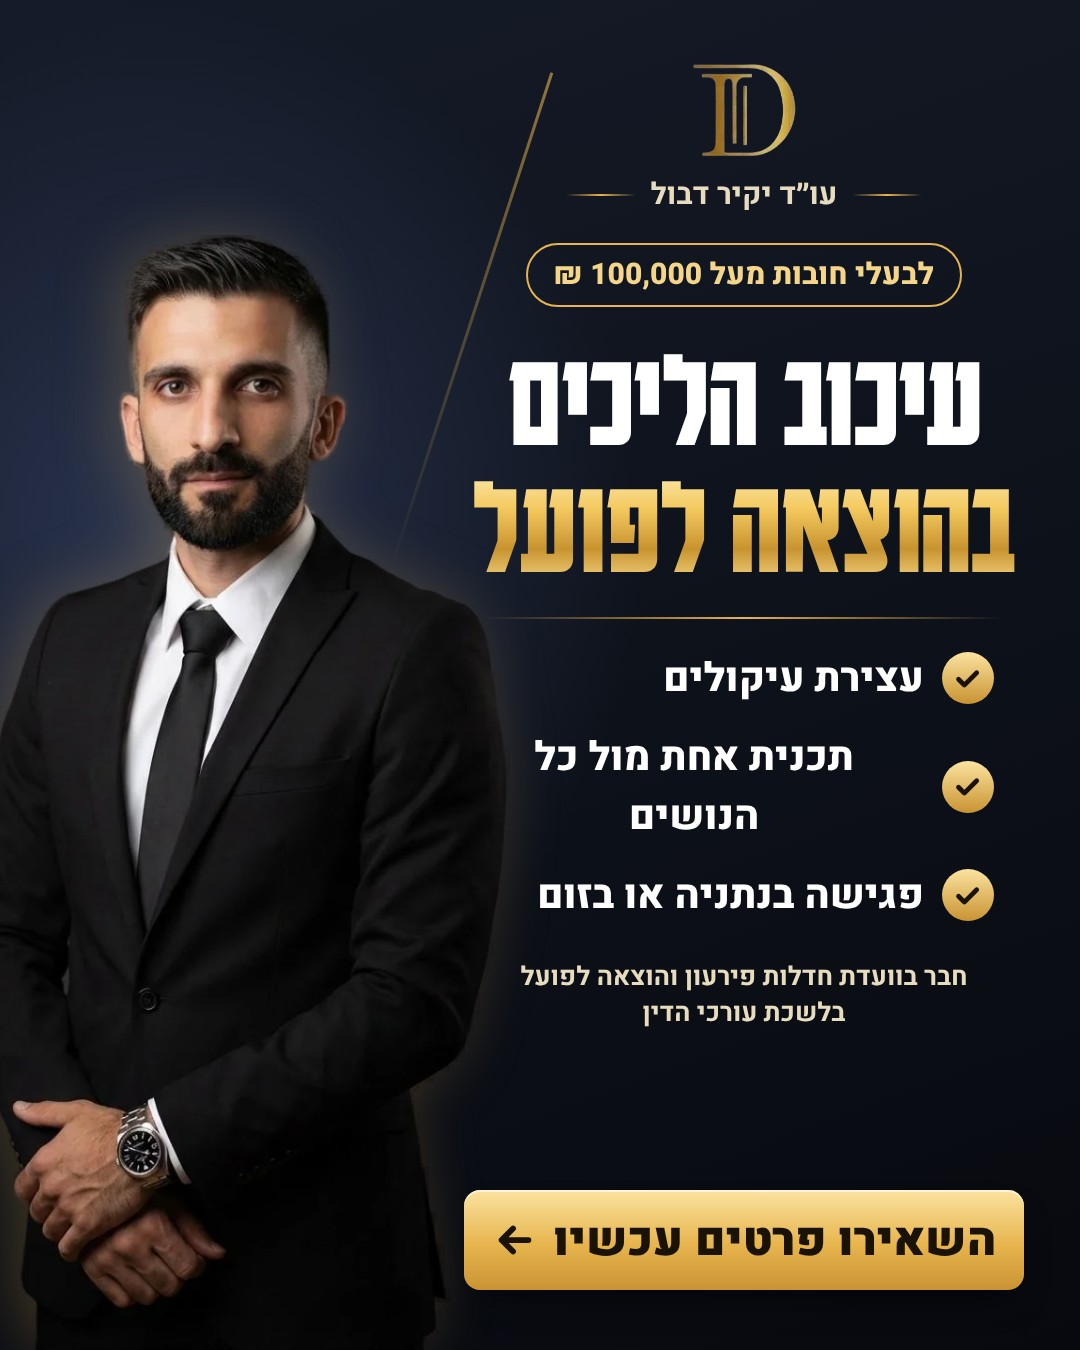
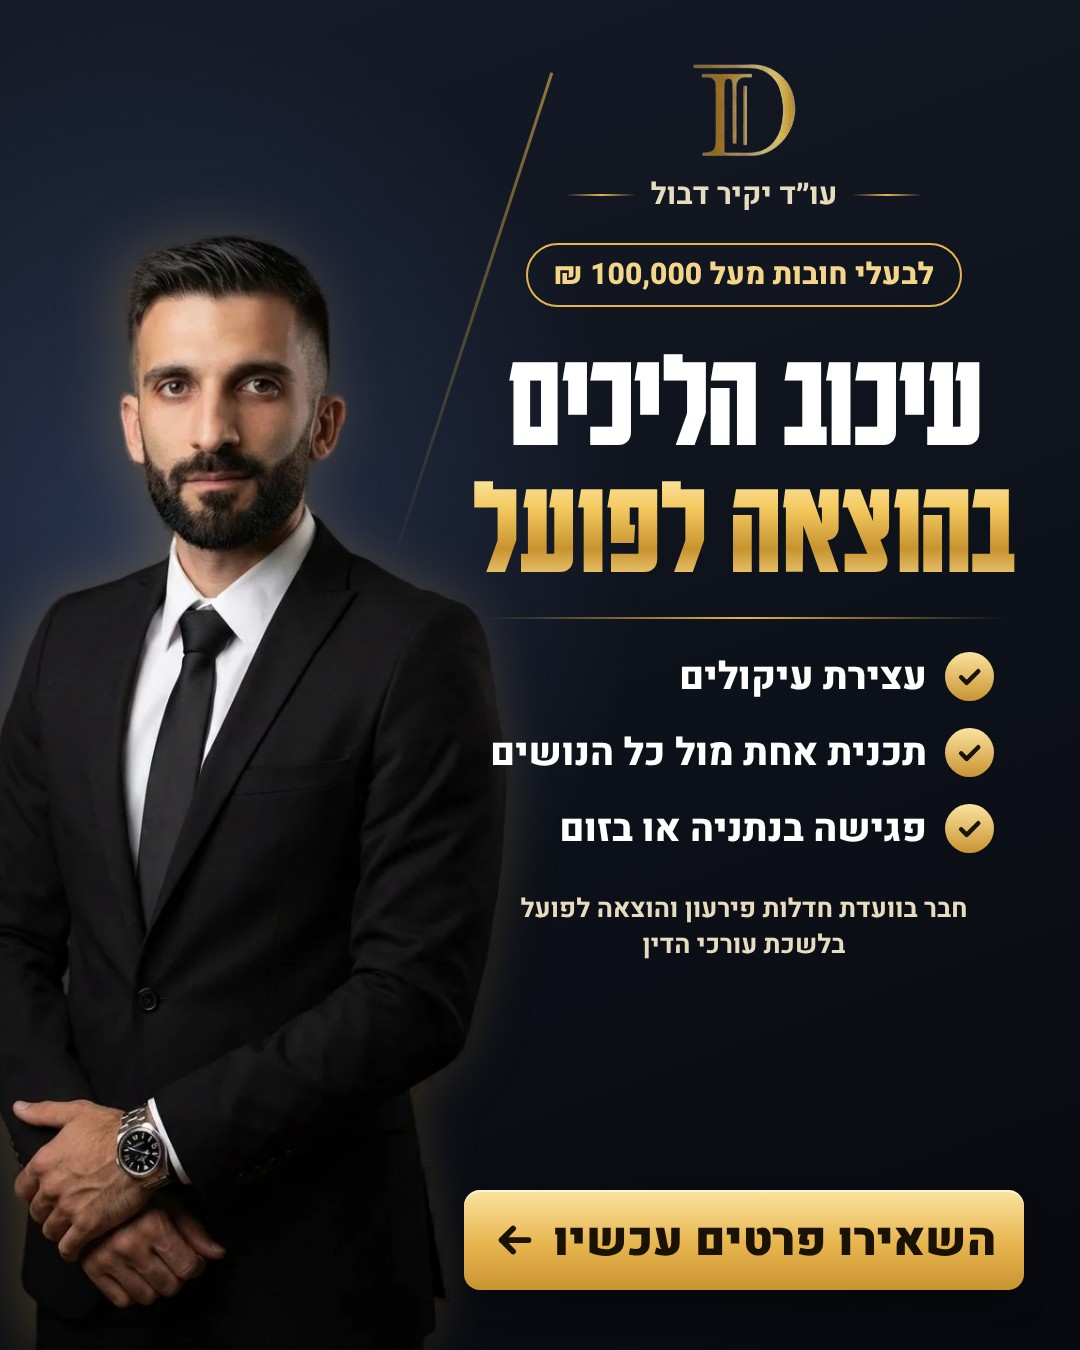
Debt ads v4: fix wrapped bullet (premium) and text touching photo (year-end)
Claude-Session: https://claude.ai/code/session_01R2PTbBSCdrkEqwtLk6qd2a

Changed region(s): [[0.4583, 0.4667, 0.9167, 0.7778]]

diff --git a/media/campaign/debt-2026-10/ads/v4-premium-f.html b/media/campaign/debt-2026-10/ads/v4-premium-f.html
@@ -122,11 +122,11 @@ html,body{background:var(--paper)}
 .cut{position:absolute;bottom:0}.cut img{display:block;width:100%;height:auto}
 .btn-g{display:flex;align-items:center;justify-content:center;gap:16px;border-radius:16px;font-weight:900;color:#1A1205;
  background:linear-gradient(180deg,#FBE3A0,#E7B44E 55%,#C99332);box-shadow:0 18px 36px -16px rgba(0,0,0,.7),inset 0 2px 0 rgba(255,255,255,.6)}
-.gl{display:flex;align-items:center;gap:18px;font-weight:800;color:#fff}
+.gl{display:flex;align-items:center;gap:18px;font-weight:800;color:#fff;white-space:nowrap}
 .gl i{flex:none;border-radius:50%;display:grid;place-items:center;background:linear-gradient(180deg,#FBE3A0,#C99332);color:#1A1205}
 .gl i svg{width:60%;height:60%}
 .rule{height:2px;background:linear-gradient(90deg,rgba(231,180,78,0),#E7B44E,rgba(231,180,78,0))}
 .pill-o{display:inline-block;border:2px solid #E7B44E;border-radius:999px;color:#F4D58A;font-weight:800}
 .plus{display:flex;align-items:center;gap:16px;font-weight:900;color:#fff}
 .plus i{flex:none;border-radius:50%;background:#F08A7E;color:#7A1414;display:grid;place-items:center;font-style:normal;font-weight:900}
-</style></head><body><div class="A f" id="ad" style="background:radial-gradient(800px 900px at 15% 40%,#2A3550 0%,rgba(42,53,80,0) 60%),linear-gradient(160deg,#151B28,#07090E)"><div class="cut" style="left:-50px;width:560px;bottom:0;filter:drop-shadow(-10px 0 30px rgba(231,180,78,.25))"><img src="../img/yakir-cutout.webp"></div><div style="position:absolute;left:470px;top:60px;width:3px;height:520px;background:linear-gradient(#E7B44E,rgba(231,180,78,0));transform:rotate(18deg);opacity:.6"></div><div style="position:absolute;right:56px;width:560px;top:64px;text-align:center"><img src="../img/logo-d.png" style="height:96px"><div style="display:flex;align-items:center;gap:14px;justify-content:center;color:#E8DCC0;font-size:30px;font-weight:600;margin-top:6px"><span class="rule" style="width:70px"></span>עו״ד יקיר דבול<span class="rule" style="width:70px"></span></div><span class="pill-o" style="font-size:30px;padding:8px 26px;margin-top:26px">לבעלי חובות מעל 100,000 ₪</span><div class="K" style="font-size:138px;margin-top:26px;color:#fff">עיכוב הליכים</div><div class="K gold" style="font-size:138px">בהוצאה לפועל</div><div class="rule" style="margin:30px 20px"></div><div style="display:grid;gap:20px;justify-items:start;padding-right:30px"><div class="gl" style="font-size:40px"><i style="width:52px;height:52px"><svg viewBox="0 0 24 24" fill="none" stroke="currentColor" stroke-width="3.6" stroke-linecap="round" stroke-linejoin="round"><path d="M5 12.5l4.5 4.5L19 7.5"/></svg></i>עצירת עיקולים</div><div class="gl" style="font-size:40px"><i style="width:52px;height:52px"><svg viewBox="0 0 24 24" fill="none" stroke="currentColor" stroke-width="3.6" stroke-linecap="round" stroke-linejoin="round"><path d="M5 12.5l4.5 4.5L19 7.5"/></svg></i>תכנית אחת מול כל הנושים</div><div class="gl" style="font-size:40px"><i style="width:52px;height:52px"><svg viewBox="0 0 24 24" fill="none" stroke="currentColor" stroke-width="3.6" stroke-linecap="round" stroke-linejoin="round"><path d="M5 12.5l4.5 4.5L19 7.5"/></svg></i>פגישה בנתניה או בזום</div></div><div style="margin-top:34px;color:#E8DCC0;font-size:26px;font-weight:600;line-height:1.4">חבר בוועדת חדלות פירעון והוצאה לפועל<br>בלשכת עורכי הדין</div></div><div class="btn-g" style="position:absolute;right:56px;width:560px;bottom:60px;height:100px;font-size:46px">השאירו פרטים עכשיו<svg viewBox="0 0 24 24" width="1em" height="1em" fill="none" stroke="currentColor" stroke-width="3" stroke-linecap="round" stroke-linejoin="round"><path d="M19 12H5M11 6l-6 6 6 6"/></svg></div></div></body></html>
+</style></head><body><div class="A f" id="ad" style="background:radial-gradient(800px 900px at 15% 40%,#2A3550 0%,rgba(42,53,80,0) 60%),linear-gradient(160deg,#151B28,#07090E)"><div class="cut" style="left:-50px;width:560px;bottom:0;filter:drop-shadow(-10px 0 30px rgba(231,180,78,.25))"><img src="../img/yakir-cutout.webp"></div><div style="position:absolute;left:470px;top:60px;width:3px;height:520px;background:linear-gradient(#E7B44E,rgba(231,180,78,0));transform:rotate(18deg);opacity:.6"></div><div style="position:absolute;right:56px;width:560px;top:64px;text-align:center"><img src="../img/logo-d.png" style="height:96px"><div style="display:flex;align-items:center;gap:14px;justify-content:center;color:#E8DCC0;font-size:30px;font-weight:600;margin-top:6px"><span class="rule" style="width:70px"></span>עו״ד יקיר דבול<span class="rule" style="width:70px"></span></div><span class="pill-o" style="font-size:30px;padding:8px 26px;margin-top:26px">לבעלי חובות מעל 100,000 ₪</span><div class="K" style="font-size:138px;margin-top:26px;color:#fff">עיכוב הליכים</div><div class="K gold" style="font-size:138px">בהוצאה לפועל</div><div class="rule" style="margin:30px 20px"></div><div style="display:grid;gap:20px;justify-items:start;padding-right:30px"><div class="gl" style="font-size:38px"><i style="width:49px;height:49px"><svg viewBox="0 0 24 24" fill="none" stroke="currentColor" stroke-width="3.6" stroke-linecap="round" stroke-linejoin="round"><path d="M5 12.5l4.5 4.5L19 7.5"/></svg></i>עצירת עיקולים</div><div class="gl" style="font-size:38px"><i style="width:49px;height:49px"><svg viewBox="0 0 24 24" fill="none" stroke="currentColor" stroke-width="3.6" stroke-linecap="round" stroke-linejoin="round"><path d="M5 12.5l4.5 4.5L19 7.5"/></svg></i>תכנית אחת מול כל הנושים</div><div class="gl" style="font-size:38px"><i style="width:49px;height:49px"><svg viewBox="0 0 24 24" fill="none" stroke="currentColor" stroke-width="3.6" stroke-linecap="round" stroke-linejoin="round"><path d="M5 12.5l4.5 4.5L19 7.5"/></svg></i>פגישה בנתניה או בזום</div></div><div style="margin-top:34px;color:#E8DCC0;font-size:26px;font-weight:600;line-height:1.4">חבר בוועדת חדלות פירעון והוצאה לפועל<br>בלשכת עורכי הדין</div></div><div class="btn-g" style="position:absolute;right:56px;width:560px;bottom:60px;height:100px;font-size:46px">השאירו פרטים עכשיו<svg viewBox="0 0 24 24" width="1em" height="1em" fill="none" stroke="currentColor" stroke-width="3" stroke-linecap="round" stroke-linejoin="round"><path d="M19 12H5M11 6l-6 6 6 6"/></svg></div></div></body></html>

diff --git a/media/campaign/debt-2026-10/ads/v4-yearend-f.html b/media/campaign/debt-2026-10/ads/v4-yearend-f.html
@@ -122,11 +122,11 @@ html,body{background:var(--paper)}
 .cut{position:absolute;bottom:0}.cut img{display:block;width:100%;height:auto}
 .btn-g{display:flex;align-items:center;justify-content:center;gap:16px;border-radius:16px;font-weight:900;color:#1A1205;
  background:linear-gradient(180deg,#FBE3A0,#E7B44E 55%,#C99332);box-shadow:0 18px 36px -16px rgba(0,0,0,.7),inset 0 2px 0 rgba(255,255,255,.6)}
-.gl{display:flex;align-items:center;gap:18px;font-weight:800;color:#fff}
+.gl{display:flex;align-items:center;gap:18px;font-weight:800;color:#fff;white-space:nowrap}
 .gl i{flex:none;border-radius:50%;display:grid;place-items:center;background:linear-gradient(180deg,#FBE3A0,#C99332);color:#1A1205}
 .gl i svg{width:60%;height:60%}
 .rule{height:2px;background:linear-gradient(90deg,rgba(231,180,78,0),#E7B44E,rgba(231,180,78,0))}
 .pill-o{display:inline-block;border:2px solid #E7B44E;border-radius:999px;color:#F4D58A;font-weight:800}
 .plus{display:flex;align-items:center;gap:16px;font-weight:900;color:#fff}
 .plus i{flex:none;border-radius:50%;background:#F08A7E;color:#7A1414;display:grid;place-items:center;font-style:normal;font-weight:900}
-</style></head><body><div class="A f" id="ad" style="background:radial-gradient(900px 900px at 80% 20%,#B3262B 0%,rgba(179,38,43,0) 70%),linear-gradient(170deg,#8E1B1F,#4E0B0E)"><div class="cut" style="left:-40px;width:540px;bottom:0;filter:drop-shadow(0 20px 40px rgba(0,0,0,.5))"><img src="../img/yakir-cutout.webp"></div><div style="position:absolute;right:60px;top:70px;width:200px;border-radius:22px;overflow:hidden;background:#fff;box-shadow:0 24px 40px -18px rgba(0,0,0,.6);text-align:center;transform:rotate(4deg)"><div style="background:#1A1A1A;color:#fff;font-weight:800;font-size:30px;padding:10px 0">דצמבר</div><div class="L" style="font-size:120px;color:#B3262B;padding:20px 0 14px">31</div></div><div style="position:absolute;right:60px;width:600px;top:330px"><div class="K" style="font-size:150px;color:#fff">סוף שנה.</div><div class="K" style="font-size:118px;color:#FFD9D4;margin-top:6px">הזמן להסדר<br>מול הבנקים.</div><div style="display:grid;gap:22px;margin-top:44px"><div class="plus" style="font-size:42px"><i style="width:50px;height:50px;font-size:38px">+</i>עיכוב הליכים בהוצאה לפועל</div><div class="plus" style="font-size:42px"><i style="width:50px;height:50px;font-size:38px">+</i>עצירת עיקולים</div><div class="plus" style="font-size:42px"><i style="width:50px;height:50px;font-size:38px">+</i>הסדר מול הבנקים והנושים</div></div></div><div style="position:absolute;right:0;left:0;bottom:0;height:150px;background:#F08A7E;display:flex;align-items:center;justify-content:center;gap:22px"><span class="K" style="font-size:84px;color:#4E0B0E">בדיקה ראשונה, ללא התחייבות</span></div><div style="position:absolute;left:40px;top:60px;color:#fff;text-align:left;font-weight:800;font-size:28px;line-height:1.25">עו״ד יקיר דבול<br><span style="font-weight:500;color:#FFD9D4;font-size:24px">חדלות פירעון והסדרי חובות</span></div></div></body></html>
+</style></head><body><div class="A f" id="ad" style="background:radial-gradient(900px 900px at 80% 20%,#B3262B 0%,rgba(179,38,43,0) 70%),linear-gradient(170deg,#8E1B1F,#4E0B0E)"><div class="cut" style="left:-90px;width:500px;bottom:0;filter:drop-shadow(0 20px 40px rgba(0,0,0,.5))"><img src="../img/yakir-cutout.webp"></div><div style="position:absolute;right:60px;top:70px;width:200px;border-radius:22px;overflow:hidden;background:#fff;box-shadow:0 24px 40px -18px rgba(0,0,0,.6);text-align:center;transform:rotate(4deg)"><div style="background:#1A1A1A;color:#fff;font-weight:800;font-size:30px;padding:10px 0">דצמבר</div><div class="L" style="font-size:120px;color:#B3262B;padding:20px 0 14px">31</div></div><div style="position:absolute;right:60px;width:600px;top:330px"><div class="K" style="font-size:150px;color:#fff">סוף שנה.</div><div class="K" style="font-size:118px;color:#FFD9D4;margin-top:6px">הזמן להסדר<br>מול הבנקים.</div><div style="display:grid;gap:22px;margin-top:44px"><div class="plus" style="font-size:38px;white-space:nowrap"><i style="width:50px;height:50px;font-size:38px">+</i>עיכוב הליכים בהוצאה לפועל</div><div class="plus" style="font-size:38px;white-space:nowrap"><i style="width:50px;height:50px;font-size:38px">+</i>עצירת עיקולים</div><div class="plus" style="font-size:38px;white-space:nowrap"><i style="width:50px;height:50px;font-size:38px">+</i>הסדר מול הבנקים והנושים</div></div></div><div style="position:absolute;right:0;left:0;bottom:0;height:150px;background:#F08A7E;display:flex;align-items:center;justify-content:center;gap:22px"><span class="K" style="font-size:84px;color:#4E0B0E">בדיקה ראשונה, ללא התחייבות</span></div><div style="position:absolute;left:40px;top:60px;color:#fff;text-align:left;font-weight:800;font-size:28px;line-height:1.25">עו״ד יקיר דבול<br><span style="font-weight:500;color:#FFD9D4;font-size:24px">חדלות פירעון והסדרי חובות</span></div></div></body></html>

diff --git a/media/campaign/debt-2026-10/ads/v4-outin-f.html b/media/campaign/debt-2026-10/ads/v4-outin-f.html
@@ -122,7 +122,7 @@ html,body{background:var(--paper)}
 .cut{position:absolute;bottom:0}.cut img{display:block;width:100%;height:auto}
 .btn-g{display:flex;align-items:center;justify-content:center;gap:16px;border-radius:16px;font-weight:900;color:#1A1205;
  background:linear-gradient(180deg,#FBE3A0,#E7B44E 55%,#C99332);box-shadow:0 18px 36px -16px rgba(0,0,0,.7),inset 0 2px 0 rgba(255,255,255,.6)}
-.gl{display:flex;align-items:center;gap:18px;font-weight:800;color:#fff}
+.gl{display:flex;align-items:center;gap:18px;font-weight:800;color:#fff;white-space:nowrap}
 .gl i{flex:none;border-radius:50%;display:grid;place-items:center;background:linear-gradient(180deg,#FBE3A0,#C99332);color:#1A1205}
 .gl i svg{width:60%;height:60%}
 .rule{height:2px;background:linear-gradient(90deg,rgba(231,180,78,0),#E7B44E,rgba(231,180,78,0))}

diff --git a/media/campaign/debt-2026-10/ads/gen4.py b/media/campaign/debt-2026-10/ads/gen4.py
@@ -12,7 +12,7 @@ EXTRA = """
 .cut{position:absolute;bottom:0}.cut img{display:block;width:100%;height:auto}
 .btn-g{display:flex;align-items:center;justify-content:center;gap:16px;border-radius:16px;font-weight:900;color:#1A1205;
  background:linear-gradient(180deg,#FBE3A0,#E7B44E 55%,#C99332);box-shadow:0 18px 36px -16px rgba(0,0,0,.7),inset 0 2px 0 rgba(255,255,255,.6)}
-.gl{display:flex;align-items:center;gap:18px;font-weight:800;color:#fff}
+.gl{display:flex;align-items:center;gap:18px;font-weight:800;color:#fff;white-space:nowrap}
 .gl i{flex:none;border-radius:50%;display:grid;place-items:center;background:linear-gradient(180deg,#FBE3A0,#C99332);color:#1A1205}
 .gl i svg{width:60%;height:60%}
 .rule{height:2px;background:linear-gradient(90deg,rgba(231,180,78,0),#E7B44E,rgba(231,180,78,0))}
@@ -65,7 +65,7 @@ def premium():
            '<div class="K" style="font-size:138px;margin-top:26px;color:#fff">עיכוב הליכים</div>'
            '<div class="K gold" style="font-size:138px">בהוצאה לפועל</div>'
            '<div class="rule" style="margin:30px 20px"></div>'
-           '<div style="display:grid;gap:20px;justify-items:start;padding-right:30px">' + gl('עצירת עיקולים', 40) + gl('תכנית אחת מול כל הנושים', 40) + gl('פגישה בנתניה או בזום', 40) + '</div>'
+           '<div style="display:grid;gap:20px;justify-items:start;padding-right:30px">' + gl('עצירת עיקולים', 38) + gl('תכנית אחת מול כל הנושים', 38) + gl('פגישה בנתניה או בזום', 38) + '</div>'
            '<div style="margin-top:34px;color:#E8DCC0;font-size:26px;font-weight:600;line-height:1.4">חבר בוועדת חדלות פירעון והוצאה לפועל<br>בלשכת עורכי הדין</div></div>'
            f'<div class="btn-g" style="position:absolute;right:56px;width:560px;bottom:60px;height:100px;font-size:46px">השאירו פרטים עכשיו{ARRL}</div>')
     return page(photo + txt, bg)
@@ -73,7 +73,7 @@ def premium():
 
 def yearend():
     bg = 'radial-gradient(900px 900px at 80% 20%,#B3262B 0%,rgba(179,38,43,0) 70%),linear-gradient(170deg,#8E1B1F,#4E0B0E)'
-    photo = f'<div class="cut" style="left:-40px;width:540px;bottom:0;filter:drop-shadow(0 20px 40px rgba(0,0,0,.5))"><img src="{PHOTO}"></div>'
+    photo = f'<div class="cut" style="left:-90px;width:500px;bottom:0;filter:drop-shadow(0 20px 40px rgba(0,0,0,.5))"><img src="{PHOTO}"></div>'
     cal = ('<div style="position:absolute;right:60px;top:70px;width:200px;border-radius:22px;overflow:hidden;background:#fff;box-shadow:0 24px 40px -18px rgba(0,0,0,.6);text-align:center;transform:rotate(4deg)">'
            '<div style="background:#1A1A1A;color:#fff;font-weight:800;font-size:30px;padding:10px 0">דצמבר</div>'
            '<div class="L" style="font-size:120px;color:#B3262B;padding:20px 0 14px">31</div></div>')
@@ -81,7 +81,7 @@ def yearend():
            '<div class="K" style="font-size:150px;color:#fff">סוף שנה.</div>'
            '<div class="K" style="font-size:118px;color:#FFD9D4;margin-top:6px">הזמן להסדר<br>מול הבנקים.</div>'
            '<div style="display:grid;gap:22px;margin-top:44px">'
-           + ''.join(f'<div class="plus" style="font-size:42px"><i style="width:50px;height:50px;font-size:38px">+</i>{t}</div>' for t in ('עיכוב הליכים בהוצאה לפועל', 'עצירת עיקולים', 'הסדר מול הבנקים והנושים')) +
+           + ''.join(f'<div class="plus" style="font-size:38px;white-space:nowrap"><i style="width:50px;height:50px;font-size:38px">+</i>{t}</div>' for t in ('עיכוב הליכים בהוצאה לפועל', 'עצירת עיקולים', 'הסדר מול הבנקים והנושים')) +
            '</div></div>'
            '<div style="position:absolute;right:0;left:0;bottom:0;height:150px;background:#F08A7E;display:flex;align-items:center;justify-content:center;gap:22px">'
            f'<span class="K" style="font-size:84px;color:#4E0B0E">בדיקה ראשונה, ללא התחייבות</span></div>'
